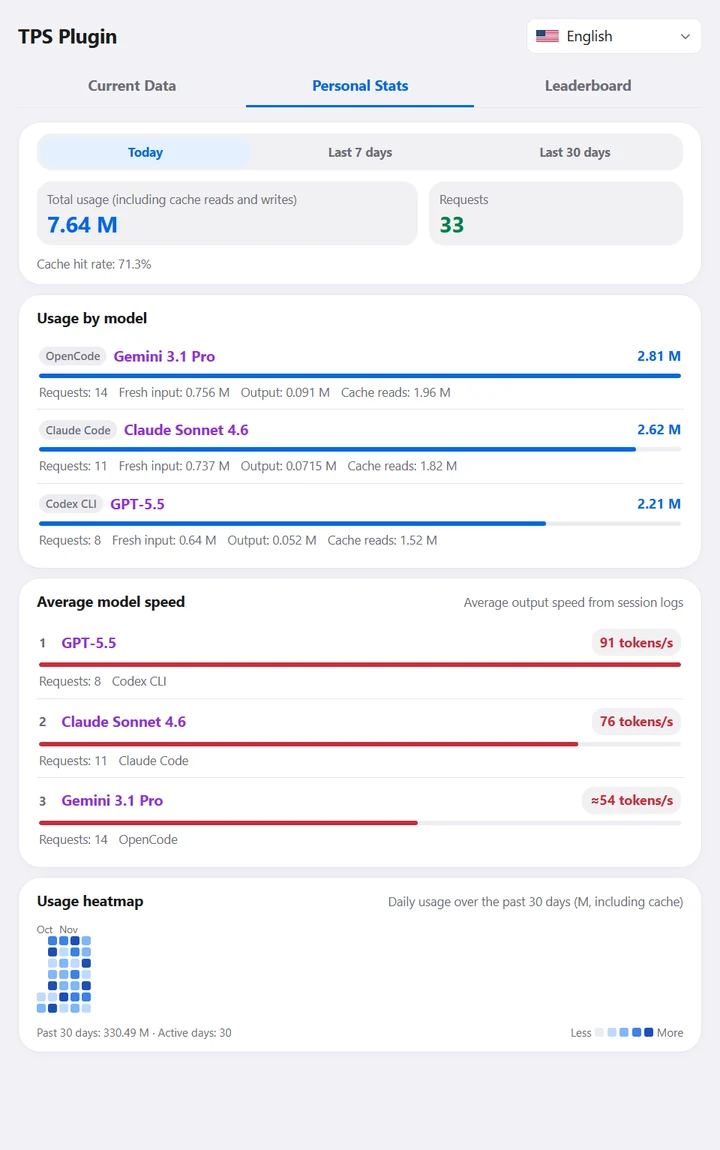
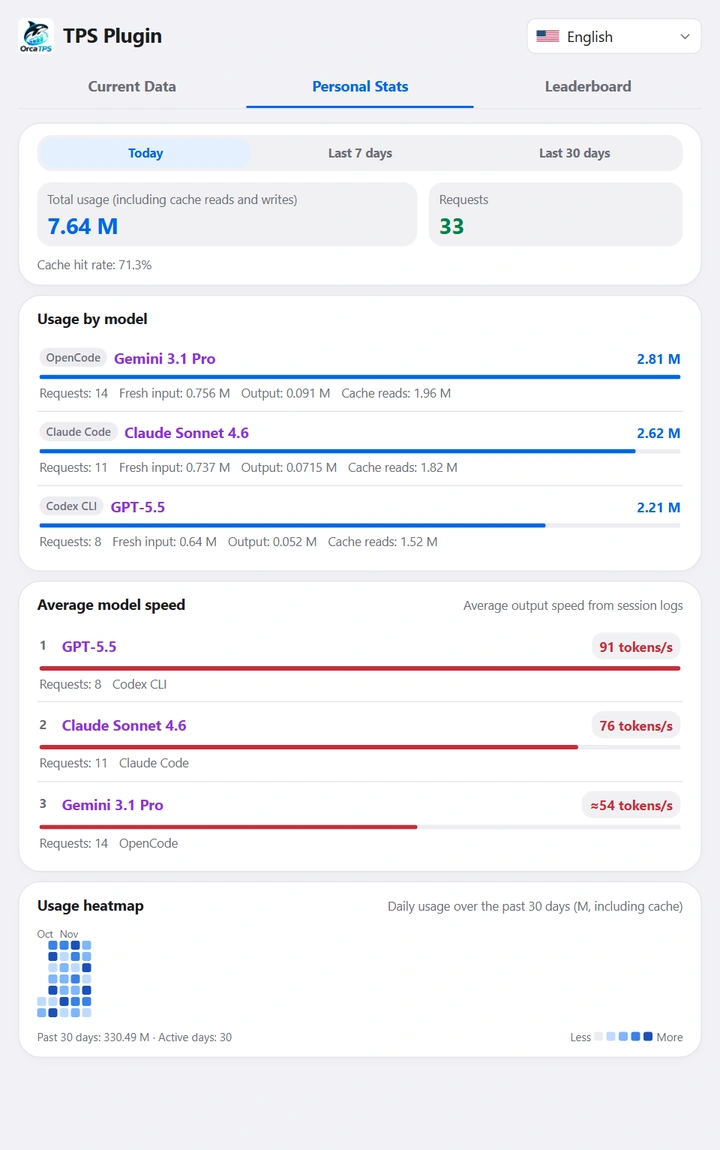
feat: add TPS panel branding and update time

diff --git a/src/panel.html b/src/panel.html
@@ -78,9 +78,10 @@
     }
     button { font: inherit; }
     .panel-header { display: flex; align-items: center; justify-content: space-between; gap: 12px; }
-    .panel-summary { min-width: 0; }
     h1 { margin: 0; font-size: 18px; line-height: 1.4; letter-spacing: -.3px; font-weight: 750; }
     .title-bar { display: flex; align-items: center; justify-content: space-between; gap: 10px; min-height: 32px; }
+    .panel-title { display: flex; align-items: center; gap: 8px; white-space: nowrap; }
+    .panel-logo { flex: none; width: 32px; height: 32px; border-radius: 6px; object-fit: contain; }
     .language-picker { position: relative; flex: 0 1 156px; min-width: 0; }
     .language-toggle, .language-option {
       display: flex; align-items: center; gap: 7px; min-width: 0; min-height: 32px;
@@ -110,7 +111,7 @@
     .language-option { width: 100%; border-color: transparent; text-align: start; }
     .language-option:hover, .language-option[aria-pressed="true"] { background: var(--button-bg); color: var(--blue); }
     .language-message { margin: 4px 6px; color: var(--muted); overflow-wrap: anywhere; }
-    .summary { margin: 4px 0 0; color: var(--muted); font-size: 11px; }
+    .current-updated { margin: 0; color: var(--muted); font-size: 11px; }
     .refresh {
       display: inline-flex; align-items: center; justify-content: center; gap: 5px;
       flex-shrink: 0; min-height: 34px; padding: 7px 11px; border: 0; border-radius: 13px;
@@ -461,8 +462,6 @@
     .heat-legend .lv4 { background: var(--heat-4); }
     .heat-tip { position: absolute; z-index: 5; max-width: 240px; padding: 5px 8px; border-radius: 8px; background: var(--ink); color: var(--surface); font-size: 11px; line-height: 1.4; white-space: nowrap; pointer-events: none; transform: translate(-50%, -100%); box-shadow: var(--shadow); }
     .heat-tip[hidden] { display: none; }
-    .footer { margin: 15px 2px 0; color: var(--muted); font-size: 10px; line-height: 1.7; }
-    .footer p { margin: 0; }
     @media (max-width: 339px) {
       .metrics { gap: 6px; }
       .card-top { gap: 8px; }
@@ -500,7 +499,7 @@
 <body>
   <main id="panel" aria-labelledby="panel-title">
     <div class="title-bar" dir="ltr">
-      <h1 id="panel-title">TPS Plugin</h1>
+      <h1 class="panel-title" id="panel-title"><img class="panel-logo" src="panel-logo.png" alt="">TPS Plugin</h1>
       <div class="language-picker" id="language-picker" hidden>
         <button class="language-toggle" id="language-toggle" type="button" aria-expanded="false" aria-controls="language-menu">
           <img class="language-flag" id="language-flag" alt="">
@@ -690,7 +689,7 @@
     </section>
     <section class="panel-view" id="current-data" role="tabpanel" aria-labelledby="tab-current" tabindex="0" hidden>
       <div class="panel-header">
-        <p class="summary panel-summary" id="summary" data-localized-text><span data-i18n="initial-recent-requests"></span></p>
+        <p class="current-updated" id="updated" data-localized-text>—</p>
         <button class="refresh" id="refresh" data-testid="refresh" type="button" data-i18n-aria-label="refresh-current">
           <svg viewBox="0 0 24 24" fill="none" stroke="currentColor" stroke-width="1.8" stroke-linecap="round" stroke-linejoin="round" aria-hidden="true"><path d="M20 7v5h-5M4 17v-5h5"/><path d="M6.1 7a7 7 0 0 1 11.6-1L20 9M4 15l2.3 3A7 7 0 0 0 17.9 17"/></svg>
           <span><span data-i18n="refresh"></span></span>
@@ -704,10 +703,6 @@
         <span class="empty-icon" aria-hidden="true">🚀</span>
         <p class="empty-text" id="empty-text" data-localized-text></p>
       </div>
-      <footer class="footer">
-        <p><span data-i18n="request-speed-note"></span></p>
-        <p id="updated" data-localized-text hidden></p>
-      </footer>
     </section>
   </main>
 
@@ -936,7 +931,7 @@
     (() => {
       'use strict';
       const byId = id => document.getElementById(id);
-      const ui = Object.fromEntries(['current-data', 'summary', 'refresh', 'error', 'warnings', 'loading', 'records', 'empty', 'empty-text', 'updated', 'record-template'].map(id => [id, byId(id)]));
+      const ui = Object.fromEntries(['current-data', 'updated', 'refresh', 'error', 'warnings', 'loading', 'records', 'empty', 'empty-text', 'record-template'].map(id => [id, byId(id)]));
       const views = [...byId('panel-tabs').children];
       const lifetime = new AbortController();
       const bridge = window.orca?.plugin;
@@ -1349,10 +1344,8 @@
           .slice().sort((a, b) => (numeric(b.completedAt) ? b.completedAt : 0) - (numeric(a.completedAt) ? a.completedAt : 0)).slice(0, 100);
         const working = busy || Boolean(current?.loading);
         ui['current-data'].setAttribute('aria-busy', String(working));
-        const scopeLabel = current?.activeSession?.provider === 'channel'
-          ? (current.activeSession.title || t('current-channel'))
-          : t('current-conversation');
-        ui.summary.textContent = t('recent-requests', scopeLabel, number(records.length));
+        const updatedAt = current?.updatedAt;
+        ui.updated.textContent = date(updatedAt) ? t('updated-at', timeLabel(updatedAt)) : '—';
         ui.refresh.disabled = working || !bridge;
         ui.refresh.classList.toggle('is-busy', working);
         ui.error.hidden = !problem;
@@ -1380,8 +1373,6 @@
         ui.records.hidden = records.length === 0;
         ui.empty.hidden = records.length > 0 || working || Boolean(problem);
         ui['empty-text'].textContent = String(current?.emptyMessage || t('empty-current-records')).slice(0, 1000);
-        ui.updated.hidden = !date(current?.updatedAt);
-        ui.updated.textContent = t('updated-at', timeLabel(current?.updatedAt));
         if (resetScroll) {
           resetScroll = false;
           if (!ui['current-data'].hidden) window.scrollTo(0, 0);
